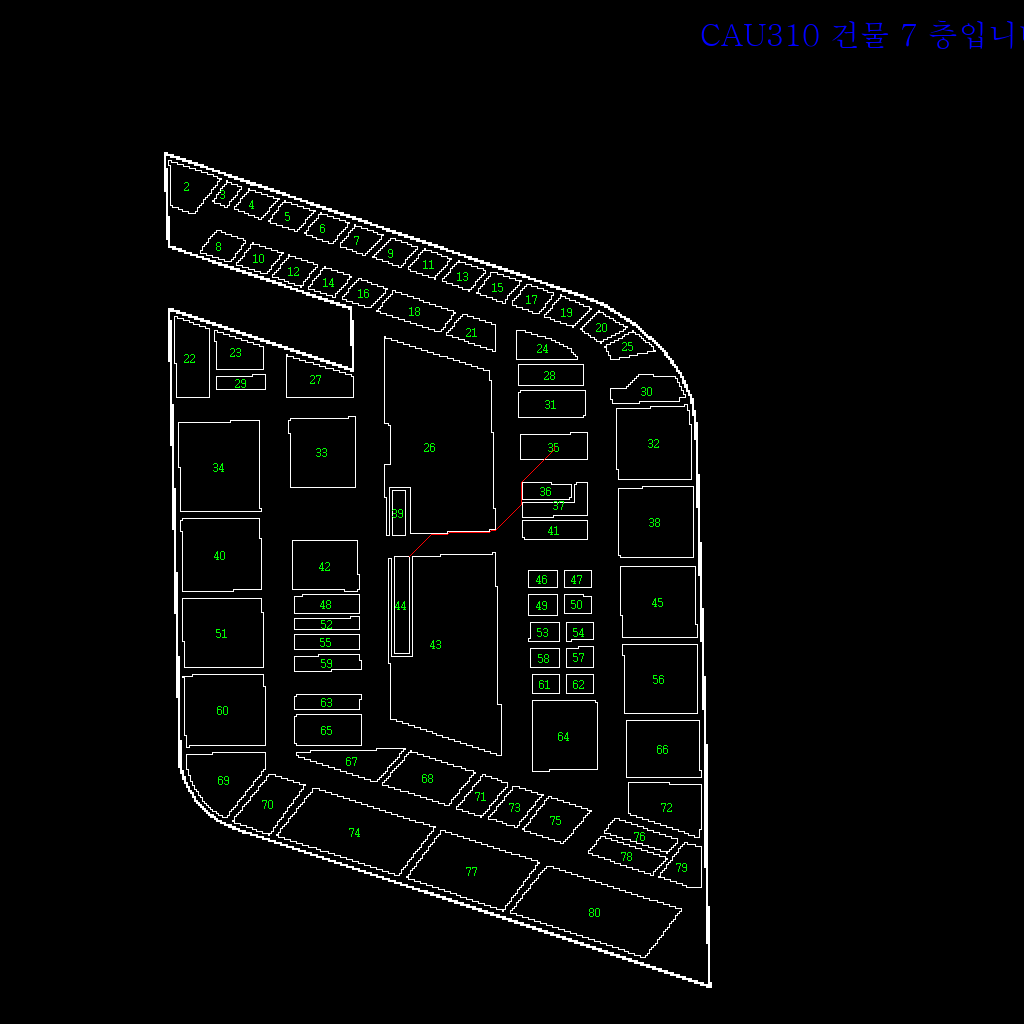
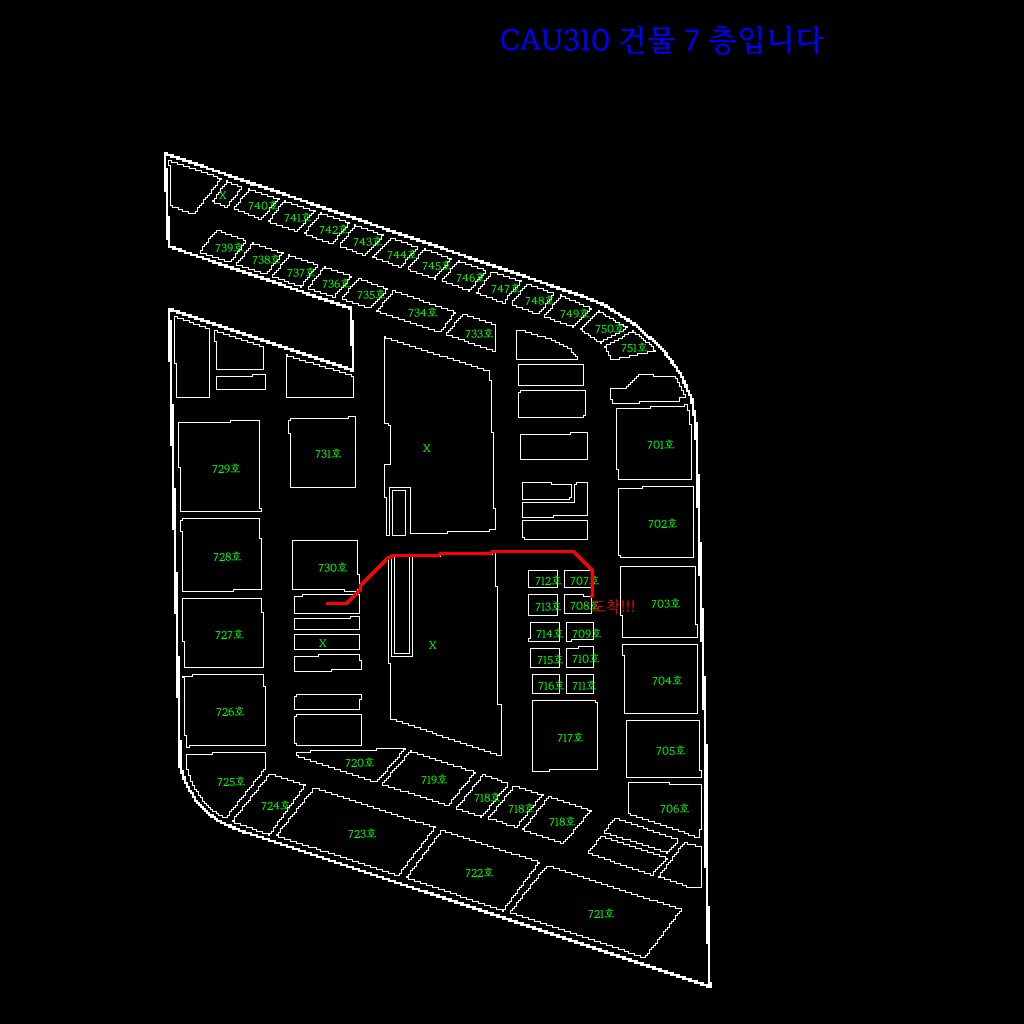
final

diff --git a/scripts/find_way.py b/scripts/find_way.py
@@ -170,3 +170,13 @@ def find_way(building_name, startFloor, startId, endFloor, endId, elev):
         )
         cv2.imwrite(mask_file_path, mask)
         print(building_name + "_{:02d}".format(floor) + ".png 생성 완료!")
+
+
+building_name = "CAU310"
+startFloor = 2
+startId = 23
+endFloor = 7
+endId = 50
+elev = 0
+if __name__ == "__main__":
+    find_way(building_name, startFloor, startId, endFloor, endId, elev)

diff --git a/main.py b/main.py
@@ -1,6 +1,6 @@
 import requests
 
-url = "http://54.180.106.175:5000/way"
+url = "http://54.180.108.110:5000/findway"
 # url = "http://127.0.0.1:5000/way"
 data = {
     "building_name": "CAU310",
@@ -8,7 +8,7 @@ data = {
     "startId": 5,
     "endFloor": 5,
     "endId": 40,
-    "elev": 1,
+    "elev": 0,
 }
 
 response = requests.post(url, json=data)
